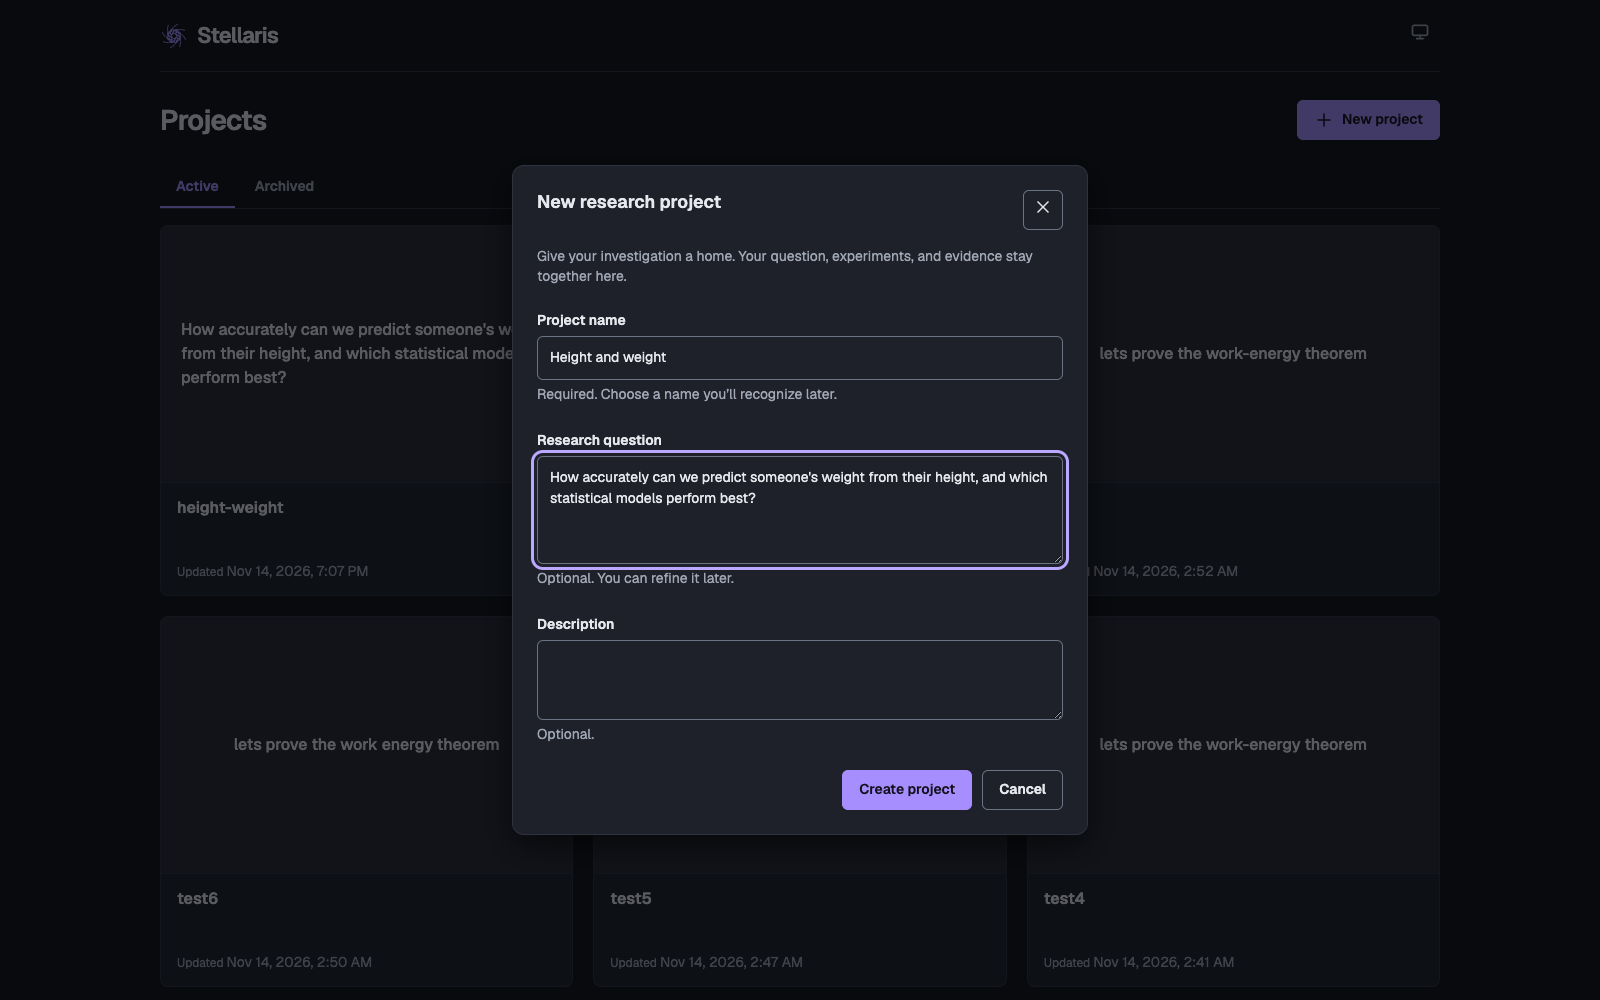
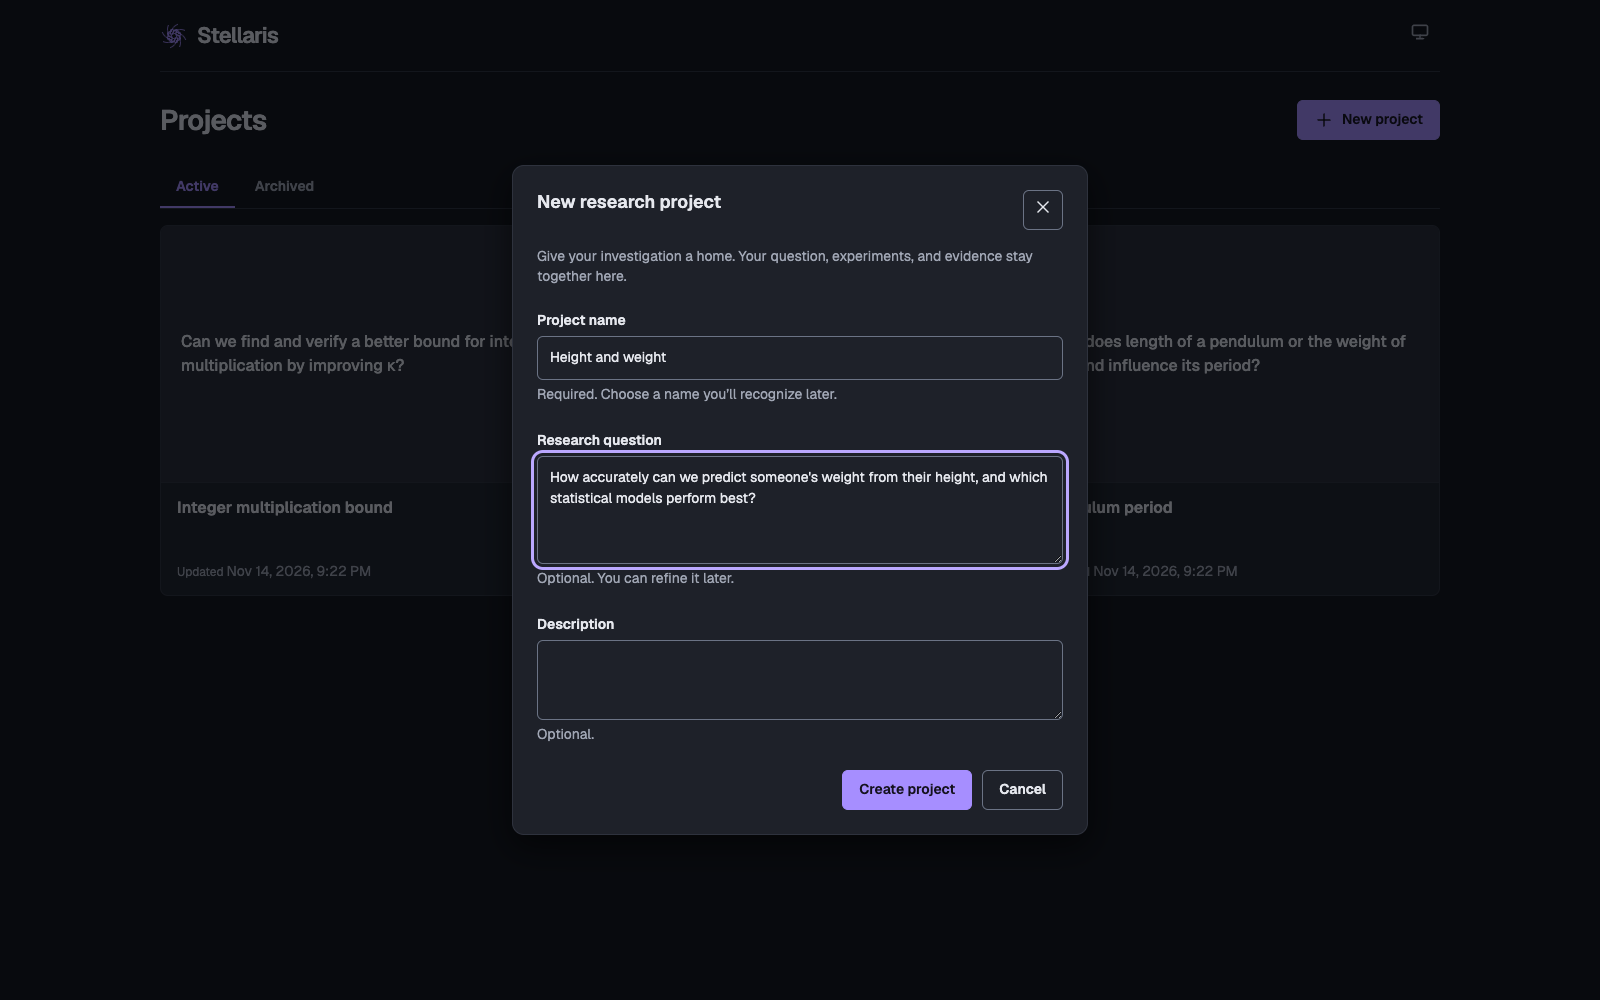
README: sample projects, refreshed step 1 and Connections screenshots

diff --git a/README.md b/README.md
@@ -2,6 +2,14 @@
 
 A persistent research workspace: ask a question, gather literature, run real experiments on your data in isolated workers, and turn the saved evidence into a scientific report. Every source, dataset, run, measurement and chart stays connected in one project.
 
+Stellaris works across subjects and levels of difficulty. These projects each start from one research question:
+
+![Sample projects in mathematics, finance and physics](docs/assets/tutorial/00-sample-projects.png)
+
+- **Mathematics, advanced:** Can we find and verify a better bound for integer multiplication by improving κ? (builds on the OpenAI and CrocSwap repositories)
+- **Finance, intermediate:** Do stock returns individualized or under index vs ETFs follow a normal distribution?
+- **Physics, introductory:** How does length of a pendulum or the weight of the end influence its period?
+
 ## Run with Docker Compose
 
 Start Docker Desktop, then run from the repository root:
@@ -83,9 +91,9 @@ Reports are generated from saved evidence rather than written freehand in chat. 
 
 ### 9. See how everything connects
 
-**Connections** draws every saved file and its recorded provenance: the dataset, each analysis run, the charts and CSVs it produced, findings, and the sources they cite. Hover a file to highlight its links.
+**Connections** draws every saved file and its recorded provenance: datasets, each analysis run, the charts and CSVs it produced, findings, and the sources they cite. Linked files cluster together, larger dots have more links, and hovering a file highlights its neighborhood with link directions. This example comes from a bouncing-ball study with several analysis runs:
 
-![Connections graph after the full session](docs/assets/tutorial/09-connections-graph.png)
+![Connections graph of a project with several analysis runs](docs/assets/tutorial/09-connections-graph.png)
 
 ## Documentation
 
